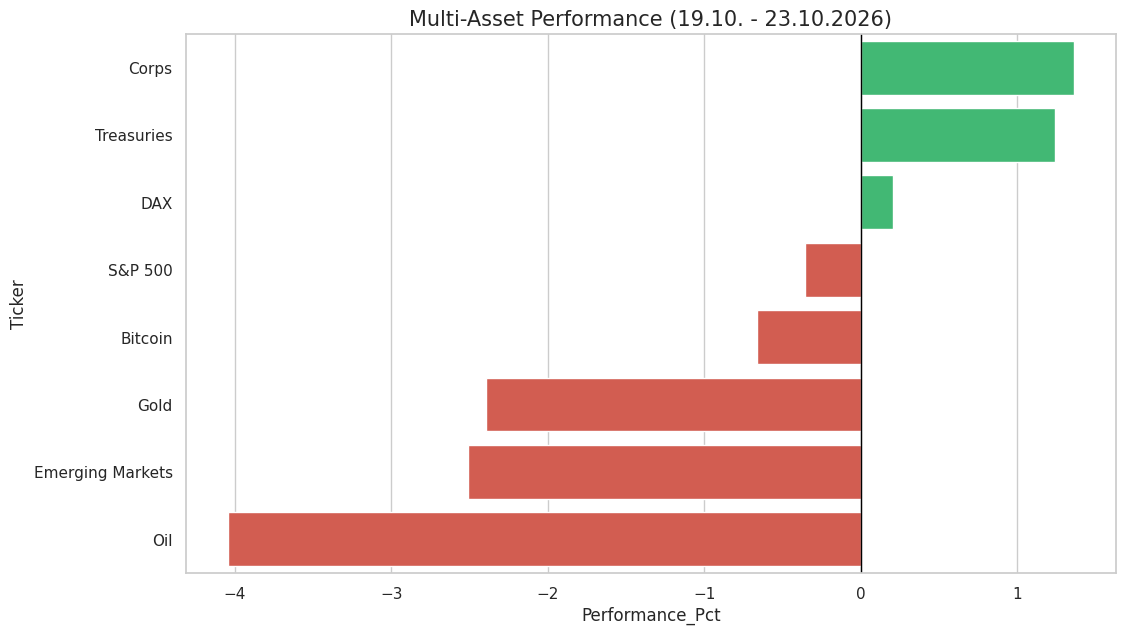
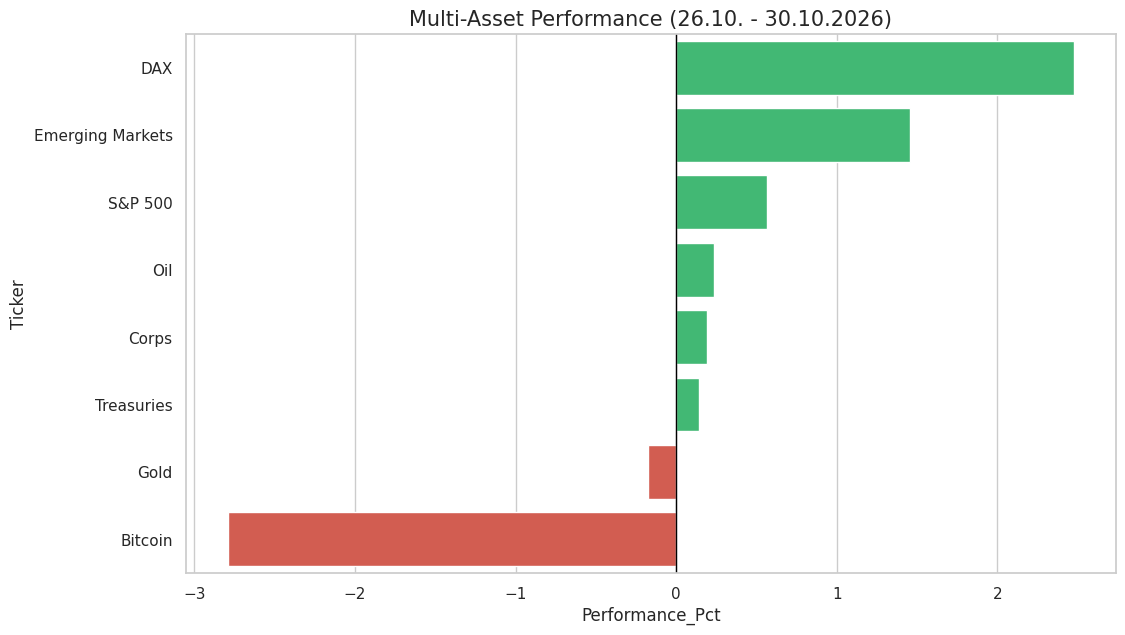
Automated weekly update

diff --git a/README.md b/README.md
@@ -1,19 +1,19 @@
 # 📈 Multi-Asset Weekly Wrap-up
 
-## Aktueller Wochenrückblick (2026-10-23)
+## Aktueller Wochenrückblick (2026-10-30)
 ![Weekly Performance](reports/latest.png)
 
 ### Markt-Kontext & Analyse
 | Asset | Performance | Trend (4W) | Risiko-Status |
 | :--- | :--- | :--- | :--- |
-| Corps | +1.36% | ➡ | ⚠ Extrem |
-| Treasuries | +1.24% | ➡ | ⚠ Extrem |
-| DAX | +0.21% | ➡ | ✅ Stabil |
-| S&P 500 | -0.35% | ➡ | ✅ Stabil |
-| Bitcoin | -0.66% | 📉 | ✅ Stabil |
-| Gold | -2.40% | ➡ | 🔄 Volatil |
-| Emerging Markets | -2.51% | ➡ | 🔄 Volatil |
-| Oil | -4.04% | ➡ | ✅ Stabil |
+| DAX | +2.47% | ➡ | 🔄 Volatil |
+| Emerging Markets | +1.46% | ➡ | ✅ Stabil |
+| S&P 500 | +0.57% | ➡ | ✅ Stabil |
+| Oil | +0.24% | ➡ | ✅ Stabil |
+| Corps | +0.19% | ➡ | ✅ Stabil |
+| Treasuries | +0.14% | ➡ | ✅ Stabil |
+| Gold | -0.17% | ➡ | ✅ Stabil |
+| Bitcoin | -2.79% | ➡ | ✅ Stabil |
 
 ---
-*Automatisch aktualisiert am 23.10.2026 um 23:44*
+*Automatisch aktualisiert am 31.10.2026 um 00:20*
